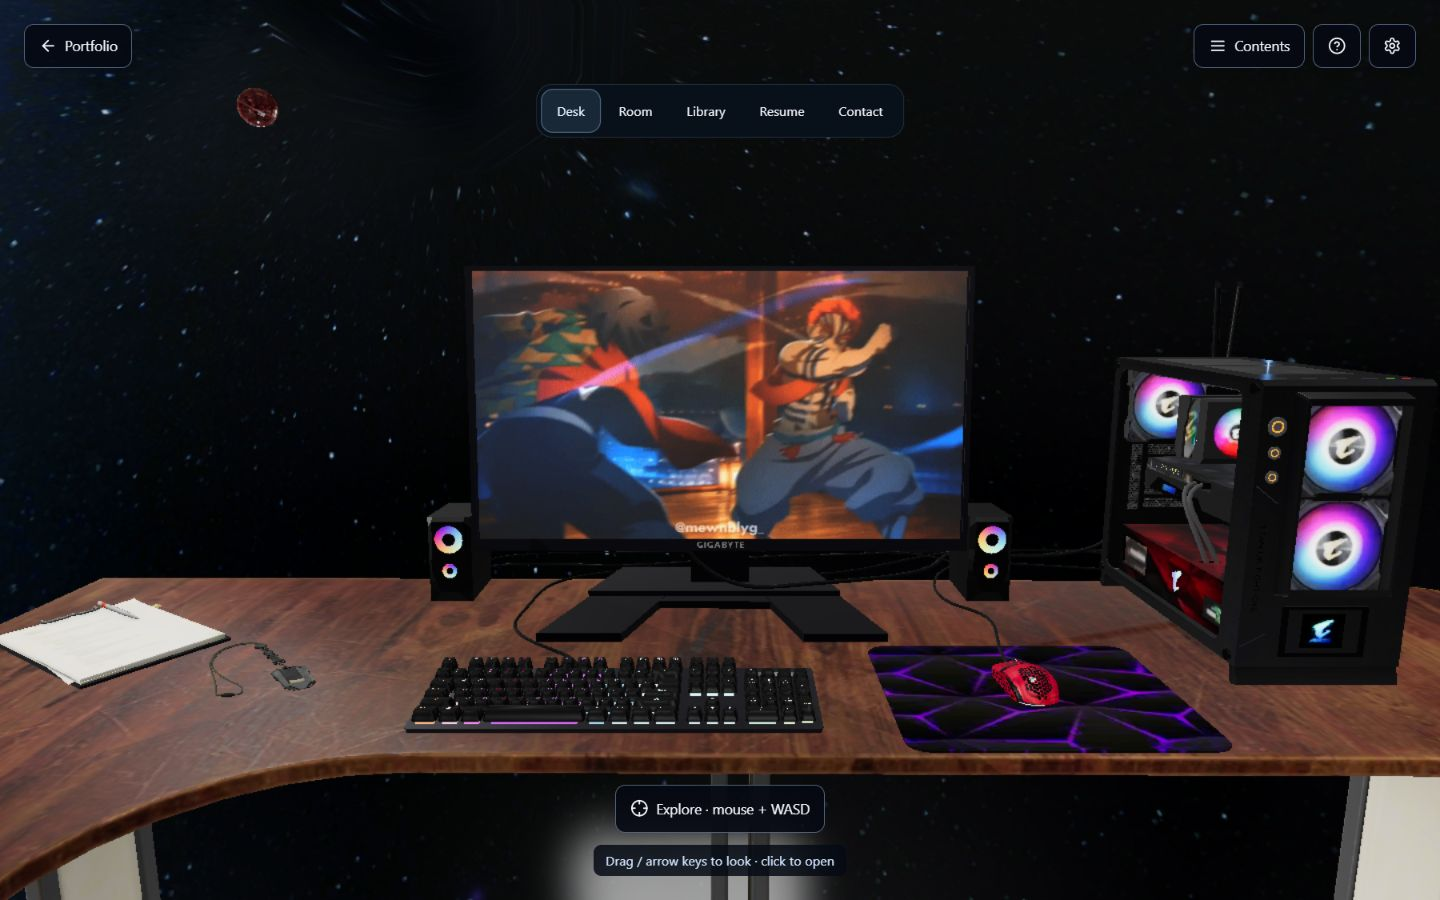
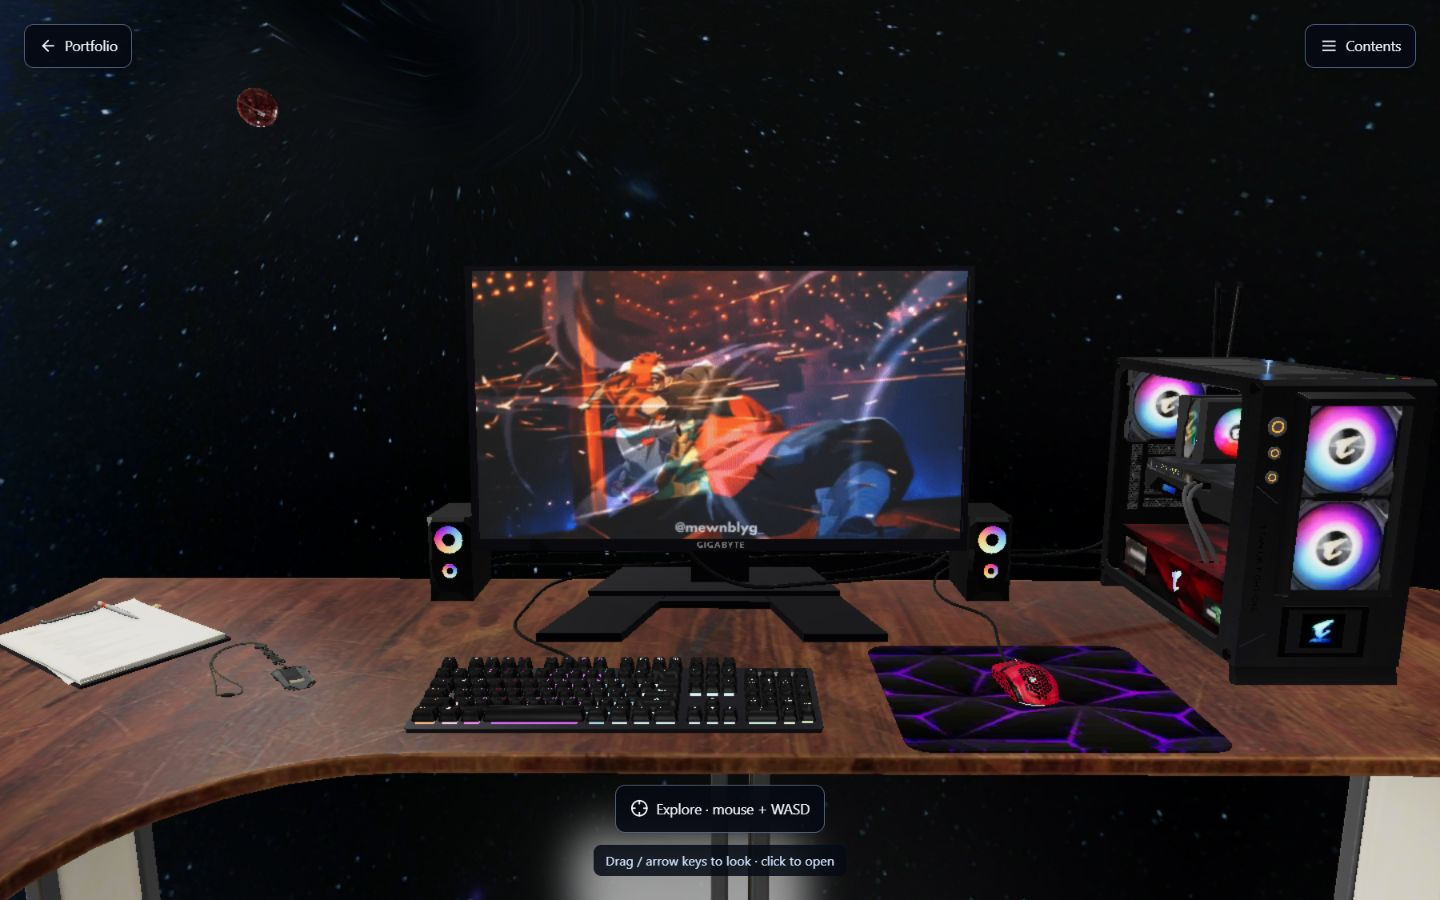
Simplify desktop workspace controls

diff --git a/src/components/workspace/WorkspaceController.tsx b/src/components/workspace/WorkspaceController.tsx
@@ -128,8 +128,8 @@ export function WorkspaceController({ onBackToIntro, lang = 'eng' }: { onBackToI
     <img className="room-poster" src="./img/workspace-poster.webp" alt="" aria-hidden="true"/>
     {mountRoom && !error && <SceneBoundary key={`${retry}-${renderTier}`} onError={fail}><WorkspaceScene showLabels={showLabels} moving={moving} pose={pose} position={position} navigation={navigation} activeView={activeView} drive={drive} input={input} onViewChange={setActiveView} onMonitorSurface={setSurface} onReturnComplete={() => { cameraReturning.current = false; dispatch({ type: 'returned' }); }} target={target} tier={renderTier} paused={overlay || menu || settingsOpen || help || phase === 'returning'} reduced={reduced} locked={locked} focusItem={focusItem} tilt={tilt.offset} onSelect={select} onTarget={onTarget} onLock={onLock} onReady={onReady} onProgress={setProgress} onError={fail} onFocusComplete={onFocusComplete} recenter={tilt.recenter} onSlow={onSlow} onHealthy={onHealthy}/></SceneBoundary>}
     {!overlay && <div className="room-hud"><header><button onClick={() => { if (document.pointerLockElement) document.exitPointerLock(); onBackToIntro?.(); }}><ArrowLeft size={18}/><span>Portfolio</span></button>
-      <div><button ref={contentsButton} onClick={() => setMenu(value => !value)} aria-expanded={menu}><Menu size={18}/><span>Contents</span></button><button onClick={() => setHelp(true)} aria-label="Room controls"><HelpCircle size={18}/></button><button onClick={() => setSettingsOpen(true)} aria-label="Workspace settings"><Settings size={18}/></button></div></header>
-      {loaded && !error && !locked && <nav className="room-views" aria-label="Room viewpoints">{roomViews.map(view => <button key={view.id} onClick={() => changeView(view.id)} disabled={!canControl} aria-pressed={activeView === view.id}>{view.title}</button>)}</nav>}
+      <div><button ref={contentsButton} onClick={() => setMenu(value => !value)} aria-expanded={menu}><Menu size={18}/><span>Contents</span></button>{touch && <><button onClick={() => setHelp(true)} aria-label="Room controls"><HelpCircle size={18}/></button><button onClick={() => setSettingsOpen(true)} aria-label="Workspace settings"><Settings size={18}/></button></>}</div></header>
+      {touch && loaded && !error && !locked && <nav className="room-views" aria-label="Room viewpoints">{roomViews.map(view => <button key={view.id} onClick={() => changeView(view.id)} disabled={!canControl} aria-pressed={activeView === view.id}>{view.title}</button>)}</nav>}
       {!loaded && !error && !slowLoad && <div className="room-loading" role="status"><p>Opening your workspace</p><progress max="1" value={progress ?? undefined}/><small>{progress === null ? 'Loading the room…' : progress >= .99 ? 'Preparing the 3D view…' : `${Math.round(progress * 100)}% downloaded`}</small><button onClick={() => setMenu(true)}>Read content while the room loads</button></div>}
       {(error || slowLoad) && <div className="room-fallback" role="status"><h1>{error ? 'Explore the content.' : 'The room is still loading.'}</h1><p>{error ? 'The 3D view is unavailable. Your projects, resume and contact details are here.' : 'You can read everything while the room loads.'}</p><button onClick={() => setMenu(true)}>Open Contents</button>{error && <button onClick={() => { dispatch({ type: 'retry' }); setError(false); setLoaded(false); setRenderTier(quality.tier); setProgress(null); setRetry(value => value + 1); }}>Retry 3D view</button>}</div>}
       {(locked || touch && canControl) && <div className={`room-reticle${target ? ' has-target' : ''}`} aria-hidden="true"><i/>{locked && currentTarget && <span>{currentTarget.title} · Click / E</span>}</div>}
@@ -143,9 +143,12 @@ export function WorkspaceController({ onBackToIntro, lang = 'eng' }: { onBackToI
         <p className="room-tilt-notice" role="status">{touch && tilt.notice}</p>
       </footer>}
     </div>}
-    {menu && !overlay && <DocumentReader title="Contents" storageKey="contents" onClose={() => { setMenu(false); contentsButton.current?.focus(); }}><section className="room-contents"><p className="reader-kicker">YOUR WORKSPACE</p><h1>What would you like to explore?</h1>{workspaceItems.map(item => { const Icon = icons[item.id]; return <button key={item.id} onClick={() => select(item.id)}><Icon size={24}/><span><strong>{item.title}</strong><small>{item.description}</small></span><span>↗</span></button>; })}</section></DocumentReader>}
+    {menu && !overlay && <DocumentReader title="Contents" storageKey="contents" onClose={() => { setMenu(false); contentsButton.current?.focus(); }}><section className="room-contents"><p className="reader-kicker">YOUR WORKSPACE</p><h1>What would you like to explore?</h1>{workspaceItems.map(item => { const Icon = icons[item.id]; return <button key={item.id} onClick={() => select(item.id)}><Icon size={24}/><span><strong>{item.title}</strong><small>{item.description}</small></span><span>↗</span></button>; })}
+      {!touch && loaded && !error && <><h2>Room viewpoints</h2><nav className="room-contents-views" aria-label="Room viewpoints">{roomViews.map(view => <button key={view.id} onClick={() => { setMenu(false); changeView(view.id); }} aria-pressed={activeView === view.id}>{view.title}</button>)}</nav></>}
+      <div className="room-contents-tools"><button onClick={() => { setMenu(false); setHelp(true); }}><HelpCircle size={18}/>Room controls</button><button onClick={() => { setMenu(false); setSettingsOpen(true); }}><Settings size={18}/>Settings</button></div>
+    </section></DocumentReader>}
     {settingsOpen && !overlay && <DocumentReader title="Settings" storageKey="settings" onClose={() => setSettingsOpen(false)}>{settings}</DocumentReader>}
-    {help && !overlay && <DocumentReader title="Room controls" storageKey="room-controls" onClose={() => setHelp(false)}><section className="room-help"><p className="reader-kicker">EXPLORE AT YOUR PACE</p><h1>Find your way around.</h1><p>Choose a viewpoint along the top to see the desk, library, resume or contact card. Contents opens every document directly.</p>
+    {help && !overlay && <DocumentReader title="Room controls" storageKey="room-controls" onClose={() => setHelp(false)}><section className="room-help"><p className="reader-kicker">EXPLORE AT YOUR PACE</p><h1>Find your way around.</h1><p>{touch ? 'Choose a viewpoint along the top to see the desk, library, resume or contact card.' : 'Open Contents to choose a room viewpoint, adjust Settings or read the controls.'} Contents opens every document directly.</p>
       <h2>Touch & pen</h2><p>Drag the scene to turn. Drag the left pad to walk. Tap an object to open it, or aim the center dot at it and use Open. Two fingers on the scene cancel selection. Tilt is optional and can be centered again from Settings.</p>
       <h2>Mouse & keyboard</h2><p>Drag to turn and click an object to open. After clicking the scene, use WASD to move and arrow keys to turn. Explore hides your cursor: move the mouse to look, click or press E to open, Escape to exit.</p>
       <p className="reader-note">Movement stays in the clear aisle. Viewpoint buttons and Contents also work with keyboard navigation. Motion settings follow your device.</p></section></DocumentReader>}

diff --git a/src/components/workspace/Workspace.css b/src/components/workspace/Workspace.css
@@ -40,6 +40,13 @@
 .room-help h1{font:clamp(30px,4vw,44px)/1.15 Georgia,serif;text-wrap:balance;margin:12px 0 24px}
 .room-help h2{font-size:19px;margin:28px 0 10px}
 .room-help p{font-size:16px;line-height:1.75;max-width:640px}
+.room-contents h2{font-size:16px;margin:28px 0 12px;color:#d0e5ff}
+.room-contents-views,.room-contents-tools{display:flex;flex-wrap:wrap;gap:8px}
+.room-contents-views button,.room-contents-tools button{display:inline-flex;align-items:center;justify-content:center;gap:8px;min-height:44px;padding:10px 14px;border:1px solid #33435c;border-radius:10px;background:#050913;color:#f3f5fa;font-size:13px;transition:background-color 140ms,border-color 140ms}
+.room-contents-views button[aria-pressed=true]{background:#19324a;border-color:#91b9de}
+.room-contents-tools{margin-top:24px;padding-top:20px;border-top:1px solid #33435c}
+@media(hover:hover){.room-contents-views button:hover,.room-contents-tools button:hover{background:#142032;border-color:#adc9e8}}
+@media(prefers-reduced-motion:reduce){.room-contents-views button,.room-contents-tools button{transition:none}}
 .workspace-experience[data-mode=focusing] .room-hud footer,.workspace-experience[data-mode=returning] .room-hud footer{opacity:.35}
 @media(max-width:700px){
   .room-views{top:calc(68px + env(safe-area-inset-top));max-width:calc(100% - 24px);width:max-content}

diff --git a/docs/workspace-controls-2026-10-06.vi.md b/docs/workspace-controls-2026-10-06.vi.md
@@ -7,10 +7,12 @@
 | Nhìn quanh | Kéo scene hoặc phím mũi tên; Explore dùng mouse look | Kéo một ngón trong scene; tilt tùy chọn |
 | Di chuyển | WASD khi canvas được focus hoặc đang Explore | Cần di chuyển ở góc trái, kéo vùng scene để nhìn bằng ngón khác |
 | Mở nội dung | Click vật thể; trong Explore có click / E | Chạm vật thể hoặc ngắm tâm nhìn rồi nhấn Open |
-| Đi đến đồ vật | Thanh Desk / Room / Library / Resume / Contact | Cùng thanh vị trí, các nút tối thiểu 44 px |
+| Đi đến đồ vật | Mở Contents → Room viewpoints; màn hình chính không có thanh vị trí | Thanh Desk / Room / Library / Resume / Contact, các nút tối thiểu 44 px |
 | Dừng / quay về | Thả phím, Escape thoát Explore; reader trả lại vị trí và góc nhìn | Thả cần; Reset đưa về vị trí đã chọn; reader trả lại góc cũ |
 
 Auto nhận loại pointer thật khi người dùng thao tác, không suy luận chỉ từ chiều rộng màn hình. Touch và pen được xử lý chung; thiết bị hybrid có thể đổi giữa hai UI. Settings có lựa chọn Auto / Touch / Mouse để chủ động chọn điều khiển.
+
+UI chuột được rút gọn sau phản hồi: trên cảnh chỉ còn Portfolio, Contents và Explore. Room controls, Settings và các góc nhìn nằm trong Contents. Cần Move, Open card và Tilt chỉ có ở Touch.
 
 Vùng đi lại x=[7,16], z=[-15,14], nằm ngoài bàn (x tối đa khoảng 5.86) và tủ sách (x tối đa khoảng 3.27) trong nguồn GLB. Tốc độ 3.2 đơn vị mô hình mỗi giây, hướng chéo không nhanh hơn hướng thẳng. Delta sau tab ẩn được giới hạn 50 ms. Đây là vùng quan sát 3D có giới hạn, không phải bộ vật lý đi bộ toàn căn phòng.
 
@@ -30,5 +32,7 @@ Vùng đi lại x=[7,16], z=[-15,14], nằm ngoài bàn (x tối đa khoảng 5.
 `check:experience` bổ sung kiểm tra mouse/touch tap, long press, mất pointer, camera preset trong vùng an toàn, tốc độ chéo, dừng khi release và tab resume không nhảy vị trí. Các hash/anchor/budget của GLB và 39 frame GIF vẫn qua kiểm tra. `check:portfolio` và build PASS; cảnh báo chunk lớn đã có từ trước.
 
 Browser kiểm tra UI chuột desktop, Touch thông qua lựa chọn trong Settings ở 390×844 và 844×390, chuyển vị trí, cần di chuyển rồi thả, phím W, Open Resume và trả về vị trí cũ. Chuyển high → low tại Contact vẫn giữ nguyên [7.5,9.6,6.2]. Ảnh và dữ liệu trong `docs/qa/controls-2026-10-06/`.
+
+Sau khi rút gọn desktop: kiểm tra Contents → Library đưa camera tới [9.5,7.8,-0.5], Contents → Settings mở đúng panel. Chế độ chuột chỉ có ba nút trên cảnh; chế độ Touch tại 390×844 vẫn có thanh góc nhìn, Move, Open và Tilt. Build và check:experience PASS; không có lỗi console trong phiên kiểm tra.
 
 Trình xem trong Codex không cho pointer lock: đã kiểm tra fallback kéo + WASD. Cần thử mouse lock, multitouch hai ngón đồng thời và cảm biến trên thiết bị thật để xác minh trải nghiệm phần cứng; ảnh viewport không chứng nhận các thao tác đó hoặc FPS trên điện thoại.
